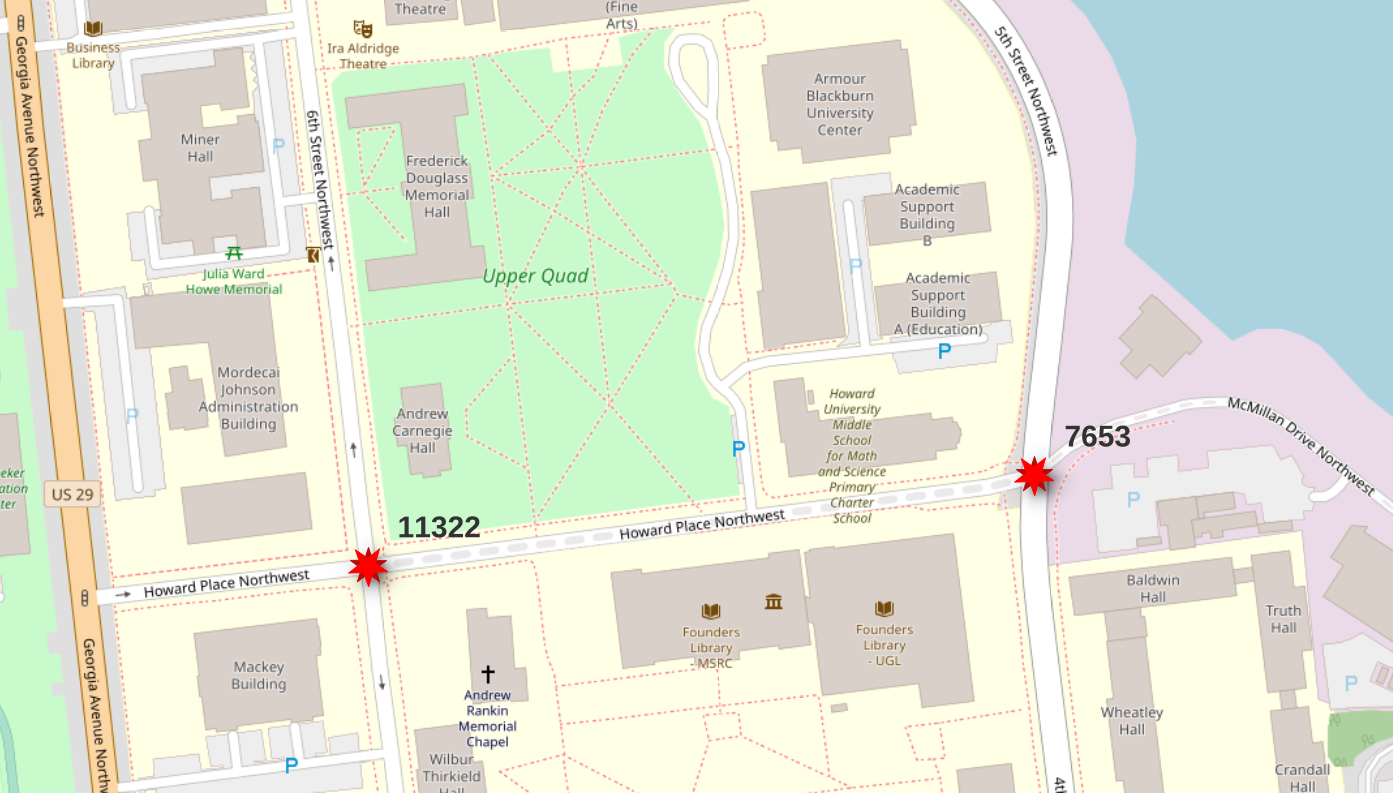
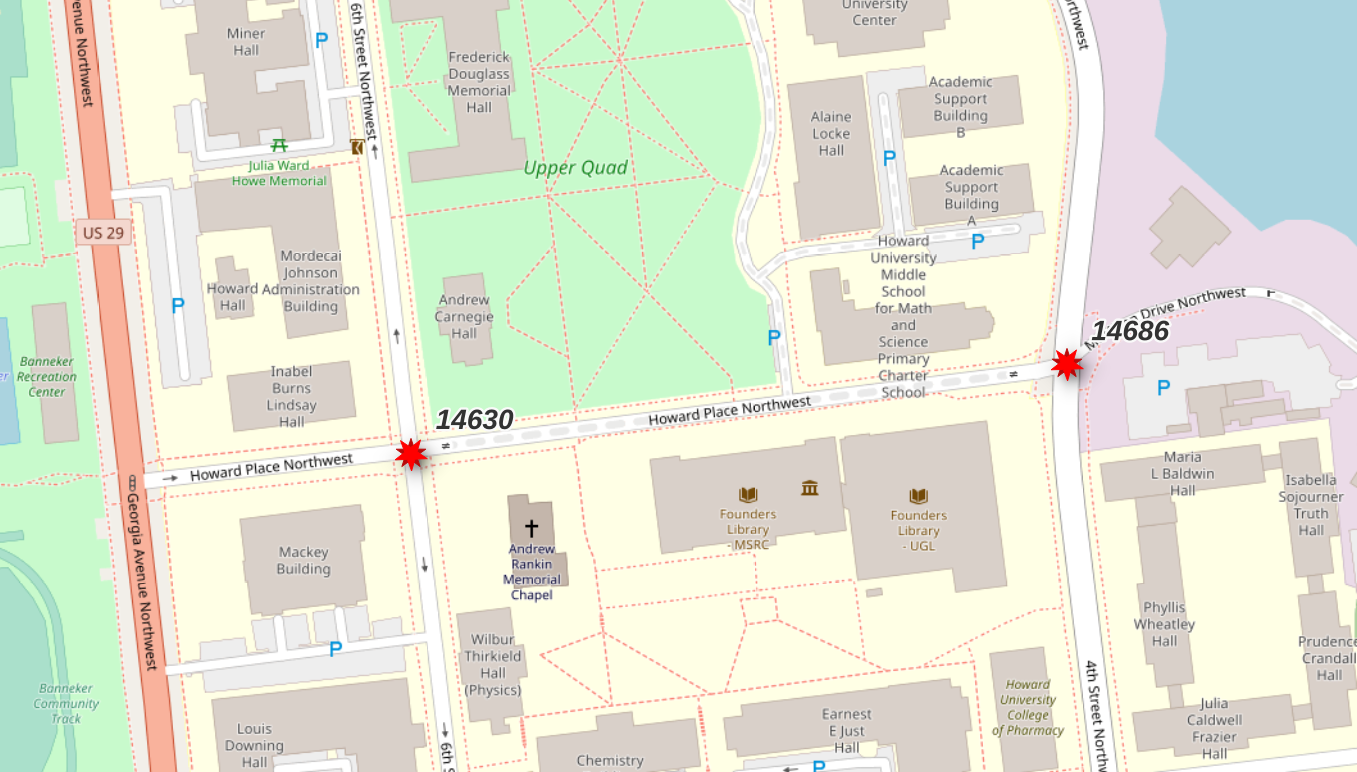
Reworking routing examples. Adding pgrouting to Docker image

diff --git a/docs/src/routing.md b/docs/src/routing.md
@@ -96,24 +96,59 @@ ALTER TABLE routing.road_line_noded
 
 ## Start/end points
 
-Picked vertex IDs `11322` and `7653`, they span a particular segment
+The following query identifies the vertex IDs for a start and end point to use
+for later queries.  Use the `start_id` and `end_id` values from this query
+in subsequent queries.
+
+
+```sql
+WITH s_point AS (
+SELECT v.id AS start_id
+    FROM routing.road_line_noded_vertices_pgr v
+    INNER JOIN (SELECT
+        ST_Transform(ST_SetSRID(ST_MakePoint(-77.0211, 38.92245), 4326), 3857)
+            AS geom
+        ) p ON v.the_geom <-> geom < 10
+    ORDER BY v.the_geom <-> geom
+    LIMIT 1
+), e_point AS (
+SELECT v.id AS end_id
+    FROM routing.road_line_noded_vertices_pgr v
+    INNER JOIN (SELECT
+        ST_Transform(ST_SetSRID(ST_MakePoint(-77.0183, 38.9227), 4326), 3857)
+            AS geom
+        ) p ON v.the_geom <-> geom < 10
+    ORDER BY v.the_geom <-> geom
+    LIMIT 1
+)
+SELECT s_point.start_id, e_point.end_id
+    FROM s_point, e_point
+;
+```
+
+```
+┌──────────┬────────┐
+│ start_id │ end_id │
+╞══════════╪════════╡
+│    14630 │  14686 │
+└──────────┴────────┘
+```
+
+Picked vertex IDs `14630` and `14686`, they span a particular segment
 of road that is tagged as `highway=residential` and `access=private`.
 This was picked to illustrate how the calculated access control columns, `route_motor`, `route_cycle` and `route_foot`,
 can influence route selection.
 
 > Note:  The vertex IDs in my test database will not necessary match the vertex IDs in your database!
 
-```bash
-Name    |Value                 |
---------+----------------------+
-osm_id  |6062791               |
-osm_type|residential           |
-name    |Howard Place Northwest|
-access  |private               |
+```sql
+SELECT *
+    FROM osm.road_line
+    WHERE osm_id = 6062791
+;
 ```
 
-
-![Screenshot from QGIS showing two labeled points, 11322 and 7653. The road between the two points is shown with a light gray dash indicating the access tag indicates non-public travel.](dc-example-route-start-end-vertices.png)
+![Screenshot from QGIS showing two labeled points, 14630 and 14686. The road between the two points is shown with a light gray dash indicating the access tag indicates non-public travel.](dc-example-route-start-end-vertices.png)
 
 > See `flex-config/helpers.lua` functions (e.g. `routable_motor()`) for logic behind access control columns.
 
@@ -132,8 +167,9 @@ SELECT d.*, n.the_geom AS node_geom, e.geom AS edge_geom
     FROM pgr_dijkstra(
         'SELECT id, source, target, cost_length AS cost,
                 geom
-            FROM routing.road_line_noded',
-                     11322, 7653, directed := False
+            FROM routing.road_line_noded
+            ',
+            14630, 14686, directed := False
         ) d
     INNER JOIN routing.road_line_noded_vertices_pgr n ON d.node = n.id
     LEFT JOIN routing.road_line_noded e ON d.edge = e.id
@@ -146,9 +182,8 @@ SELECT d.*, n.the_geom AS node_geom, e.geom AS edge_geom
 ## Route motorized
 
 The following query modifies the query passed in to `pgr_dijkstra()`
-to join to `osm.road_line`.  The join clause includes `route_motor`
-which ensures sidewalks aren't chosen, as well as enforces simple
-access control.
+to join to `osm.road_line`.  The join clause includes a filter on
+the `route_motor` column.
 
 
 ```sql
@@ -157,10 +192,10 @@ SELECT d.*, n.the_geom AS node_geom, e.geom AS edge_geom
         'SELECT n.id, n.source, n.target, n.cost_length AS cost,
                 n.geom
             FROM routing.road_line_noded n
-            INNER JOIN osm.road_line r
-            	ON n.old_id = r.osm_id
-            		AND route_motor',
-                     11322, 7653, directed := False
+            INNER JOIN routing.road_line r ON n.old_id = r.id
+                    AND r.route_motor
+            ',
+            14630, 14686, directed := False
         ) d
     INNER JOIN routing.road_line_noded_vertices_pgr n ON d.node = n.id
     LEFT JOIN routing.road_line_noded e ON d.edge = e.id
@@ -192,14 +227,20 @@ ALTER TABLE routing.road_line_noded
 
 UPDATE routing.road_line_noded rn
     SET oneway = r.oneway
-    FROM osm.road_line r
-    WHERE rn.old_id = r.osm_id AND rn.oneway IS NULL
+    FROM routing.road_line r
+    WHERE rn.old_id = r.id AND rn.oneway IS NULL
 ;
 ```
+
+### Forward and reverse costs
 
 Calculate forward cost.
 
 ```sql
+ALTER TABLE routing.road_line_noded
+    DROP COLUMN IF EXISTS cost_length
+;
+
 -- Cost with oneway considerations
 ALTER TABLE routing.road_line_noded
     ADD cost_length NUMERIC
@@ -231,7 +272,11 @@ ALTER TABLE routing.road_line_noded
 ;
 ```
 
-Route, now directed.
+### New undirected route
+
+Found new start point slightly to the north that will require one-way aware
+for proper routing. The route from this query incorrectly goes the wrong
+way on 6th Street Northwest.
 
 ```sql
 SELECT d.*, n.the_geom AS node_geom, e.geom AS edge_geom
@@ -241,14 +286,44 @@ SELECT d.*, n.the_geom AS node_geom, e.geom AS edge_geom
                 n.geom
             FROM routing.road_line_noded n
             INNER JOIN osm.road_line r
-                ON n.old_id = r.osm_id
+                ON n.old_id = r.id
                     AND route_motor
                     AND n.cost_length IS NOT NULL
         ',
-          39877, 8227,
+          14624, 14686,
+          directed := False
+        ) d
+    INNER JOIN routing.road_line_noded_vertices_pgr n ON d.node = n.id
+    LEFT JOIN routing.road_line_noded e ON d.edge = e.id
+;
+```
+
+
+![Screenshot from DBeaver showing a route with a small segment going the wrong way on a one-way street because the query was using `directed := False`.](dc-route-not-respecting-one-way.png)
+
+### Directed
+
+Route, now directed. This respects the one-way rules.
+
+
+```sql
+SELECT d.*, n.the_geom AS node_geom, e.geom AS edge_geom
+    FROM pgr_dijkstra(
+        'SELECT n.id, n.source, n.target, n.cost_length AS cost,
+                n.cost_length_reverse AS reverse_cost,
+                n.geom
+            FROM routing.road_line_noded n
+            INNER JOIN routing.road_line r
+                ON n.old_id = r.id
+                    AND route_motor
+                    AND n.cost_length IS NOT NULL
+        ',
+          14624, 14686,
           directed := True
         ) d
     INNER JOIN routing.road_line_noded_vertices_pgr n ON d.node = n.id
     LEFT JOIN routing.road_line_noded e ON d.edge = e.id
 ;
 ```
+
+![alt coming soon](dc-route-respecting-one-way.png)
